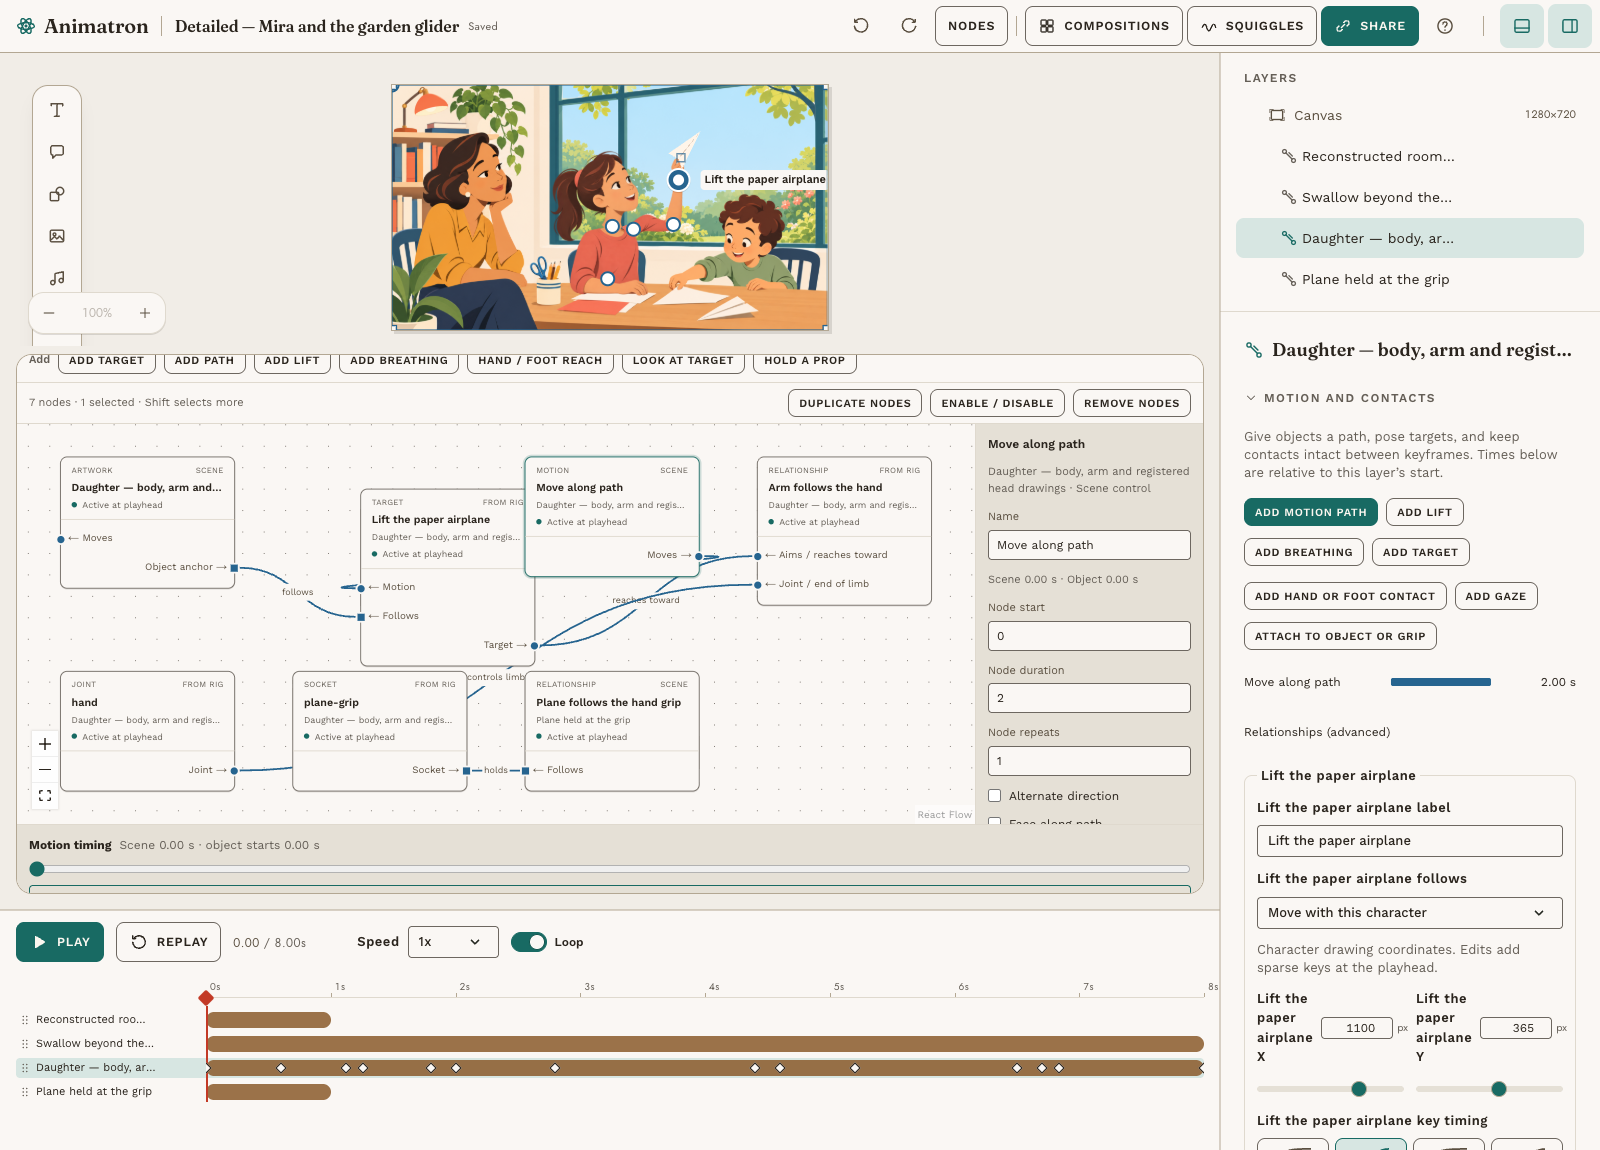
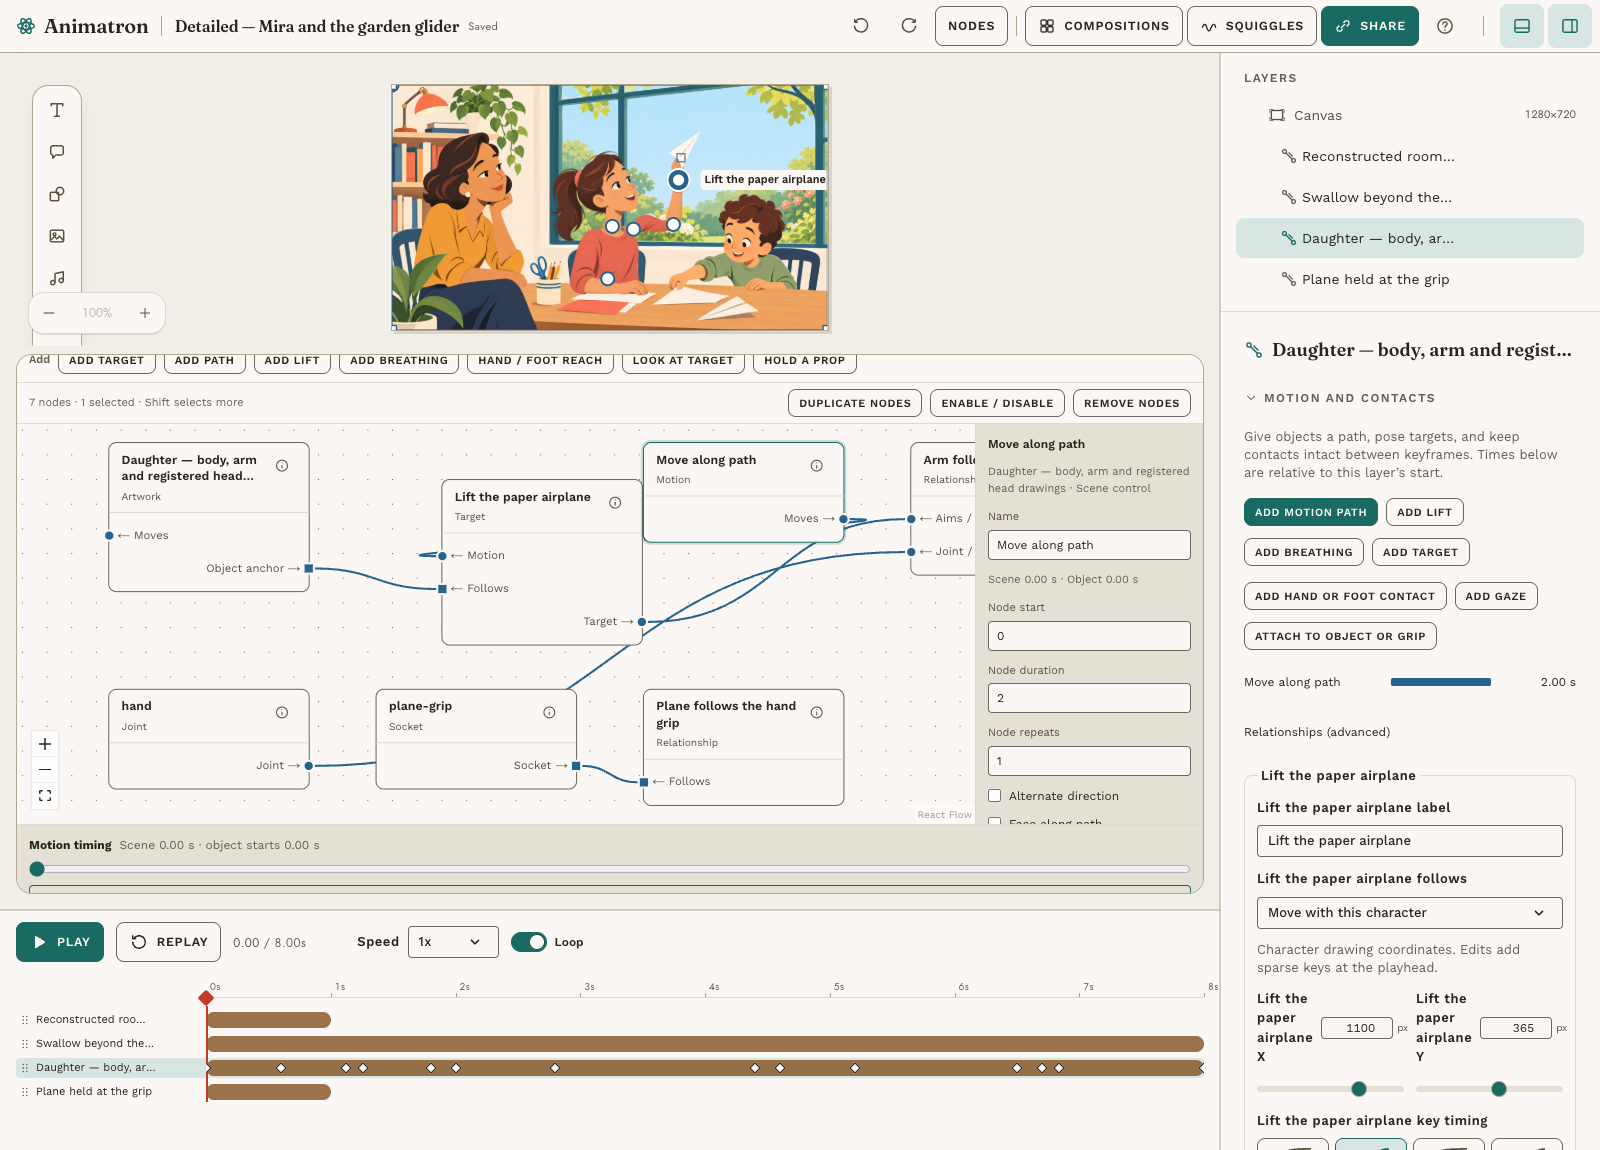
feat: simplify motion nodes with on-demand details

Changed region(s): [[0.0312, 0.3652, 0.625, 0.7], [0.0312, 0.6087, 0.1562, 0.7], [0.0938, 0.5783, 0.1562, 0.6087]]

diff --git a/src/app/motion-studio/graph/MotionGraphWorkspace.tsx b/src/app/motion-studio/graph/MotionGraphWorkspace.tsx
@@ -30,6 +30,7 @@ type Layout = { version: 1; positions: Record<string, Position>; viewport?: { x:
 export function MotionGraphWorkspace({ doc, time, selectedClipId, onSelectClip, onChange, onClose, onUndo, onRedo }: MotionGraphWorkspaceProps) {
   const [now, setNow] = useState(time.get()), [query, setQuery] = useState(""), [scope, setScope] = useState("selected");
   const [showJoints,setShowJoints]=useState(false);
+  const [hoveredEdge, setHoveredEdge] = useState<string | null>(null);
   const [selected, setSelected] = useState<string[]>([]), [pending, setPending] = useState<PortSelection | null>(null);
   const [message, setMessage] = useState(""), [expanded, setExpanded] = useState(false), [draft, setDraft] = useState<Record<string, Position>>({});
   const flow = useRef<ReactFlowInstance<MotionCardNode, Edge> | null>(null);
@@ -72,7 +73,7 @@ export function MotionGraphWorkspace({ doc, time, selectedClipId, onSelectClip, 
   useEffect(()=>{if(query) void flow.current?.fitView({padding:.25,minZoom:.3,maxZoom:1});},[query]);
   const nodes: MotionCardNode[] = useMemo(() => filtered.map((node) => ({ id: node.id, type: "motion", selected: selected.includes(node.id), position: draft[node.id] ?? layout?.positions[node.id] ?? { x: (visible.indexOf(node) % 4) * 260, y: Math.floor(visible.indexOf(node) / 4) * 240 }, data: { node, active: nodeActive(doc, node, now), pending, onPort, compatible } })), [filtered, visible, selected, draft, layout, doc, now, pending, onPort, compatible]);
   const visibleIds = new Set(nodes.map(n => n.id));
-  const edges: Edge[] = graph.edges.filter(e => visibleIds.has(e.source) && visibleIds.has(e.target)).map(edge => ({ ...edge, reconnectable: true, animated: false, style: { stroke: edge.enabled === false ? "var(--border-control)" : "var(--info)", strokeWidth: 2, strokeDasharray: edge.enabled === false ? "5 4" : undefined }, labelStyle: { fill: "var(--ink-secondary)", fontSize: 10 }, labelBgStyle: { fill: "var(--surface-raised)" } }));
+  const edges: Edge[] = graph.edges.filter(e => visibleIds.has(e.source) && visibleIds.has(e.target)).map(edge => ({ ...edge, label: hoveredEdge === edge.id || selected.includes(edge.source) || selected.includes(edge.target) ? edge.label : undefined, reconnectable: true, animated: false, style: { stroke: edge.enabled === false ? "var(--border-control)" : "var(--info)", strokeWidth: 2, strokeDasharray: edge.enabled === false ? "5 4" : undefined }, labelStyle: { fill: "var(--ink-secondary)", fontSize: 10 }, labelBgStyle: { fill: "var(--surface-raised)" } }));
   const persist = (positions: Record<string, Position>, viewport = layout?.viewport) => {
     const next: Layout = { version: 1, positions: { ...layout?.positions, ...positions }, ...(viewport ? { viewport } : {}) };
     onChange({ ...doc, editor: sanitizeGraphEditor({ motionGraph: next }) });
@@ -119,13 +120,15 @@ export function MotionGraphWorkspace({ doc, time, selectedClipId, onSelectClip, 
     <MotionRecipePalette doc={doc} clipId={selectedClipId} time={now} onChange={onChange} onError={setMessage} onSelectNode={choose} />
     <div className="flex flex-wrap items-center gap-2 border-b border-hairline px-3 py-1.5">
       <span className="mr-auto text-[11px] text-ink-muted">{nodes.length} nodes · {selected.length} selected · Shift selects more</span>
-      <Button size="xs" variant="outline" disabled={!selected.length} onClick={() => act("duplicate")}>Duplicate nodes</Button>
+      {selected.length > 0 && <><Button size="xs" variant="outline" onClick={() => act("duplicate")}>Duplicate nodes</Button>
       <Button size="xs" variant="outline" disabled={!selected.length} onClick={() => act("toggle")}>Enable / disable</Button>
-      <Button size="xs" variant="outline" disabled={!selected.length} onClick={() => act("remove")}>Remove nodes</Button>
+      <Button size="xs" variant="outline" disabled={!selected.length} onClick={() => act("remove")}>Remove nodes</Button></>}
     </div>
     <div className="flex min-h-0 flex-col sm:flex-row" style={{ height: expanded ? "min(65dvh, 720px)" : 400 }}>
       <div className="relative min-h-[220px] min-w-0 flex-1" data-motion-graph-canvas>
         <ReactFlow<MotionCardNode, Edge> nodes={nodes} edges={edges} nodeTypes={nodeTypes} onNodesChange={onNodesChange} onConnect={wireFromFlow} onReconnect={(edge,wire) => { if(!wire.sourceHandle||!wire.targetHandle)return; const result=reconnectMotionGraph(doc,edge.id,wire as MotionGraphConnection,time.get());if(result.error)setMessage(result.error);else {onChange(result.doc);setMessage("Reconnected. Previous relationship replaced.");} }}
+          onEdgeMouseEnter={(_, edge) => setHoveredEdge(edge.id)} onEdgeMouseLeave={() => setHoveredEdge(null)}
+          onPaneClick={() => { setSelected([]); setPending(null); }}
           onEdgeClick={(_,edge)=>choose(graph.edges.find(e=>e.id===edge.id)!.ownerNodeId)}
           isValidConnection={wire => !!wire.sourceHandle && !!wire.targetHandle && !connectMotionGraph(doc, wire as MotionGraphConnection, time.get()).error}
           onNodeClick={(_, node) => { setSelected(previous => previous.includes(node.id) ? previous : [node.id]); onSelectClip(node.data.node.clipId); }}
@@ -137,9 +140,9 @@ export function MotionGraphWorkspace({ doc, time, selectedClipId, onSelectClip, 
         </ReactFlow>
         {!nodes.length && <p className="pointer-events-none absolute inset-0 flex items-center justify-center p-6 text-center text-sm text-ink-muted">{query ? "No matching nodes. Try another name." : "Select an object, then add a target or motion."}</p>}
       </div>
-      <div className="max-h-[190px] w-full shrink-0 border-t border-hairline bg-surface-sunken sm:max-h-none sm:w-[228px] sm:border-t-0 sm:border-l"><MotionNodeInspector doc={doc} node={graph.nodes.find(n => n.id === selected.at(-1))} time={now} onChange={onChange} onError={setMessage} /></div>
+      {selected.length > 0 && <div className="max-h-[190px] w-full shrink-0 border-t border-hairline bg-surface-sunken sm:max-h-none sm:w-[228px] sm:border-t-0 sm:border-l"><MotionNodeInspector doc={doc} node={graph.nodes.find(n => n.id === selected.at(-1))} time={now} onChange={onChange} onError={setMessage} /></div>}
     </div>
     {selectedClipId && <MotionGraphTimeline doc={doc} clipId={selectedClipId} nodeId={selected.at(-1)} time={time} onChange={onChange} onSelectNode={choose} />}
-    <p role="status" aria-live="polite" className="min-h-8 border-t border-hairline px-3 py-2 text-[11px] text-ink-secondary">{message || "Drag between matching ports, or select two port labels to connect. Connections control motion; layers control paint order."}</p>
+    <p role="status" aria-live="polite" className="min-h-8 border-t border-hairline px-3 py-2 text-[11px] text-ink-secondary">{message || "Connect matching ports. Select a node to edit; hover or tap its info button for details."}</p>
   </section>;
 }

diff --git a/src/app/motion-studio/graph/MotionNodeInfo.tsx b/src/app/motion-studio/graph/MotionNodeInfo.tsx
@@ -1,0 +1,65 @@
+"use client";
+
+import { useEffect, useId, useRef, useState } from "react";
+import { createPortal } from "react-dom";
+import type { MotionGraphNode } from "../lib/motionGraph";
+
+/** Supporting facts stay readable at any graph zoom, including inside the mobile dialog. */
+export function MotionNodeInfo({ node, active }: { node: MotionGraphNode; active: boolean }) {
+  const id = useId(), trigger = useRef<HTMLButtonElement>(null), panel = useRef<HTMLDivElement>(null);
+  const timer = useRef<ReturnType<typeof setTimeout> | undefined>(undefined);
+  const [placement, setPlacement] = useState<{ x: number; y: number; host: HTMLElement } | null>(null);
+  const pinned = useRef(false);
+  const cancelClose = () => clearTimeout(timer.current);
+  const close = () => { cancelClose(); pinned.current = false; setPlacement(null); };
+  const show = () => {
+    cancelClose();
+    const button = trigger.current;
+    if (!button) return;
+    const rect = button.getBoundingClientRect();
+    setPlacement({ x: Math.max(8, Math.min(rect.right - 256, window.innerWidth - 264)), y: Math.max(8, Math.min(rect.bottom + 6, window.innerHeight - 200)), host: button.closest("dialog") ?? document.body });
+  };
+  const leave = () => { if (!pinned.current) timer.current = setTimeout(close, 150); };
+  useEffect(() => {
+    if (!placement) return;
+    const dismiss = (event: PointerEvent) => {
+      if (!trigger.current?.contains(event.target as globalThis.Node) && !panel.current?.contains(event.target as globalThis.Node)) close();
+    };
+    const escape = (event: KeyboardEvent) => { if (event.key === "Escape") { event.preventDefault(); event.stopPropagation(); close(); } };
+    // Close rather than leave an overlay behind when the user moves the graph or page.
+    document.addEventListener("pointerdown", dismiss);
+    document.addEventListener("keydown", escape, true);
+    window.addEventListener("resize", close);
+    document.addEventListener("scroll", close, true);
+    window.addEventListener("wheel", close, { passive: true });
+    return () => {
+      document.removeEventListener("pointerdown", dismiss);
+      document.removeEventListener("keydown", escape, true);
+      window.removeEventListener("resize", close);
+      document.removeEventListener("scroll", close, true);
+      window.removeEventListener("wheel", close);
+      cancelClose();
+    };
+  }, [placement]);
+  useEffect(() => () => cancelClose(), []);
+  const source = node.provenance === "rig" ? "From reusable rig" : node.provenance === "override" ? "Scene override of rig" : "Defined in this scene";
+  return <>
+    <button ref={trigger} type="button" aria-label={`About ${node.label}`} aria-describedby={placement ? id : undefined}
+      className="nodrag nopan flex h-7 w-7 shrink-0 items-center justify-center rounded text-ink-secondary hover:bg-surface-sunken focus-visible:outline-2 focus-visible:outline-primary pointer-coarse:h-11 pointer-coarse:w-11"
+      onMouseEnter={show} onMouseLeave={leave} onFocus={show} onBlur={() => { if (!pinned.current) close(); }}
+      onClick={event => { event.stopPropagation(); if (pinned.current) close(); else { pinned.current = true; show(); } }}>
+      <svg width="14" height="14" viewBox="0 0 20 20" fill="none" stroke="currentColor" strokeWidth="1.5" aria-hidden="true"><circle cx="10" cy="10" r="7.5" /><path d="M10 9v5M10 5.5v1" /></svg>
+    </button>
+    {placement && createPortal(<div ref={panel} id={id} role="tooltip" data-motion-graph
+      onMouseEnter={cancelClose} onMouseLeave={leave}
+      className="nodrag nopan fixed z-[100] w-64 rounded-md bg-surface-raised p-3 text-xs text-ink shadow-lg"
+      style={{ left: placement.x, top: placement.y }}>
+      <p className="break-words font-semibold leading-5">{node.label}</p>
+      <dl className="mt-2 space-y-2 leading-4">
+        <div><dt className="text-ink-secondary">Object</dt><dd className="break-words">{node.ownerName}</dd></div>
+        <div><dt className="text-ink-secondary">Source</dt><dd>{source}</dd></div>
+        <div><dt className="text-ink-secondary">Status</dt><dd>{!node.enabled ? "Disabled" : active ? "Active at playhead" : "Outside active interval"}</dd></div>
+      </dl>
+    </div>, placement.host)}
+  </>;
+}

diff --git a/src/app/motion-studio/graph/MotionNodeCard.tsx b/src/app/motion-studio/graph/MotionNodeCard.tsx
@@ -3,6 +3,7 @@
 import { memo } from "react";
 import { Handle, Position, type Node, type NodeProps } from "@xyflow/react";
 import type { MotionGraphNode, MotionGraphPort } from "../lib/motionGraph";
+import { MotionNodeInfo } from "./MotionNodeInfo";
 
 export type PortSelection = { nodeId: string; portId: string };
 export type MotionCardNode = Node<{
@@ -33,12 +34,15 @@ export const MotionNodeCard = memo(function MotionNodeCard({ data, selected }: N
       </button>
     </div>;
   };
-  return <article data-motion-node={node.id} className={`w-[196px] rounded-md border bg-surface-raised shadow-sm ${selected ? "border-primary ring-2 ring-primary/20" : "border-border-control"}`}>
+  return <article data-motion-node={node.id} className={`w-[196px] rounded-md border bg-surface-raised ${selected ? "border-primary ring-2 ring-primary/20" : "border-border-control"}`}>
     <header className="border-b border-hairline px-3 py-2">
-      <div className="flex items-center justify-between gap-2 text-[9px] uppercase tracking-wide text-ink-muted"><span>{role[node.kind]}</span><span>{node.provenance === "rig" ? "From rig" : node.provenance === "override" ? "Scene override" : "Scene"}</span></div>
-      <div className="mt-1 truncate text-xs font-semibold text-ink" title={node.label}>{node.label}</div>
-      {node.kind!=="object" && <div className="mt-1 truncate text-[10px] text-ink-muted" title={node.ownerName}>{node.ownerName}</div>}
-      <div className="mt-1 flex items-center gap-1.5 text-[10px] text-ink-muted"><span aria-hidden="true" className={`h-1.5 w-1.5 rounded-full ${!node.enabled ? "bg-border-control" : data.active ? "bg-primary" : "bg-info"}`} />{!node.enabled ? "Disabled" : data.active ? "Active at playhead" : "Outside active interval"}</div>
+      <div className="flex items-start gap-1">
+        <div className="min-w-0 flex-1">
+          <div className="line-clamp-2 break-words text-xs font-semibold leading-4 text-ink">{node.label}</div>
+          <div className="mt-1 text-[10px] text-ink-secondary">{role[node.kind]}{!node.enabled ? " · Disabled" : ""}</div>
+        </div>
+        <MotionNodeInfo node={node} active={data.active} />
+      </div>
     </header>
     <div className="flex flex-col gap-1 py-2">{node.ports.map(port)}</div>
   </article>;

diff --git a/src/app/motion-studio/graph/MotionGraphWorkspace.test.tsx b/src/app/motion-studio/graph/MotionGraphWorkspace.test.tsx
@@ -104,3 +104,32 @@ test("whole-scene scope exposes other layers and an empty search has guidance",(
  fireEvent.change(screen.getByRole("combobox",{name:"Graph scope"}),{target:{value:"all"}});fireEvent.click(screen.getByRole("button",{name:"Select Second"}));expect(onSelectClip).toHaveBeenCalledWith("second");
  fireEvent.change(screen.getByRole("searchbox",{name:"Find nodes"}),{target:{value:"nonexistent"}});expect(screen.getByText(/No matching nodes/)).toBeVisible();fireEvent.click(screen.getByRole("button",{name:"Expand"}));fireEvent.click(screen.getByRole("button",{name:"Compact"}));fireEvent.click(screen.getByRole("button",{name:"Close nodes"}));expect(onClose).toHaveBeenCalled();
 });
+
+
+test("node details are on demand and can be dismissed without changing the graph", () => {
+  const { onChange } = mount();
+  expect(screen.queryByRole("tooltip")).toBeNull();
+  expect(screen.queryByText("Active at playhead")).toBeNull();
+  const details = screen.getByRole("button", { name: "About Hand" });
+  fireEvent.mouseEnter(details);
+  expect(screen.getByRole("tooltip")).toHaveTextContent("Title");
+  expect(screen.getByRole("tooltip")).toHaveTextContent("Active at playhead");
+  expect(fireEvent.keyDown(document, { key: "Escape", cancelable: true })).toBe(false);
+  expect(screen.queryByRole("tooltip")).toBeNull();
+  fireEvent.focus(details);
+  expect(screen.getByRole("tooltip")).toBeVisible();
+  fireEvent.blur(details);
+  expect(screen.queryByRole("tooltip")).toBeNull();
+  fireEvent.click(details);
+  expect(screen.getByRole("tooltip")).toBeVisible();
+  fireEvent.pointerDown(document.body);
+  expect(screen.queryByRole("tooltip")).toBeNull();
+  expect(onChange).not.toHaveBeenCalled();
+});
+
+test("the inspector uses canvas space only after selecting a node", () => {
+  mount();
+  expect(screen.queryByText(/Select a node to edit it/)).toBeNull();
+  fireEvent.click(screen.getByRole("button", { name: "Select Hand" }));
+  expect(screen.getByRole("complementary", { name: "Node inspector" })).toBeVisible();
+});

diff --git a/docs/illustrated-scenes/node-editor.md b/docs/illustrated-scenes/node-editor.md
@@ -45,3 +45,23 @@ Focused verification: 68 tests across six files, including three layout tests al
 Custom collapsible action macros, arbitrary expressions, simulation, general blending/compositing nodes, mesh topology/UV creation and continuous perspective generation require additional design/runtime work. The existing head drawings and prepared deformation remain available through their existing editors. This release improves authoring and control; it does not claim a new natural-acting benchmark or automatically improve the static family members. Review stills, contacts and transitions separately from structural validation.
 
 App changes are prepared for review. A private plugin release does not merge or deploy the application.
+
+
+### Compact cards and supporting detail
+
+Cards keep the node name, type, disabled state and labeled ports visible. Long
+names wrap to two lines; full names, owning objects, source and current activity
+are available through the info button. Hover or keyboard focus previews that
+information; click/tap keeps it open until an outside click, Escape or navigation.
+The overlay stays at readable screen size when the graph is zoomed and remains
+inside the phone dialog. No animation fields or saved layouts change.
+
+The inspector and selection actions appear after selecting a node. Click blank
+canvas to clear selection. Wire labels appear on hover or when an endpoint is
+selected, avoiding redundant text over labeled ports.
+
+Research before this refinement: [Houdini Node Info](https://www.sidefx.com/docs/houdini/network/info.html)
+separates temporary inspection from persistent editing; [n8n node controls](https://docs.n8n.io/workflows/components/nodes/)
+reveals secondary actions on hover and separates configuration. Animatron adapts
+that progressive disclosure with explicit keyboard and touch access rather than
+requiring hover. This was a documentation comparison, not hands-on competitor testing.
